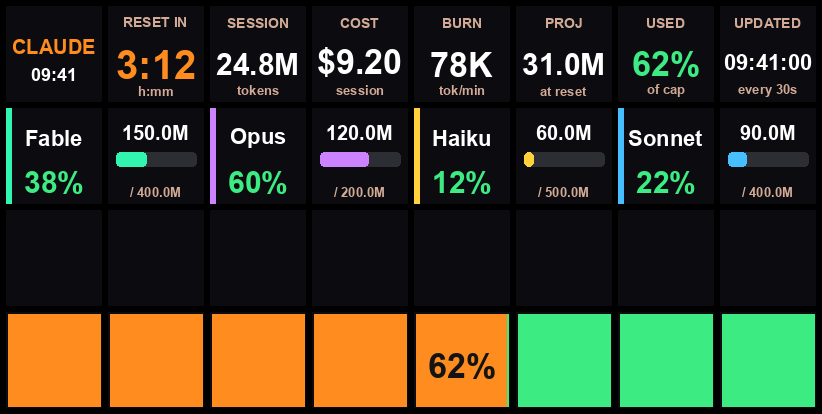
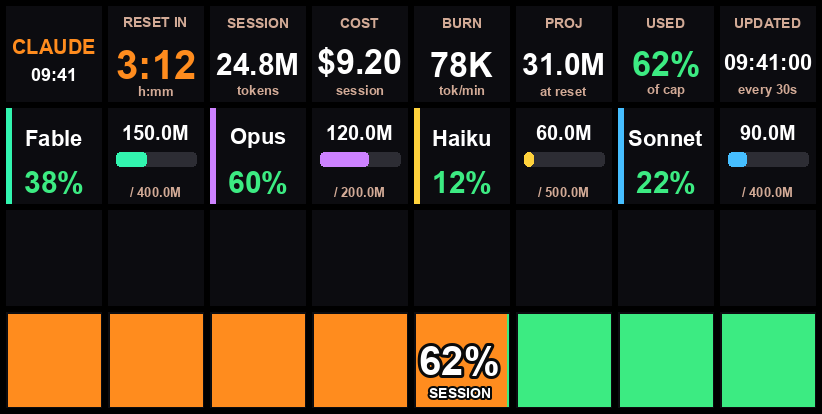
Make session usage percent prominent in bottom bar
Render the percentage in large white text with a dark outline plus a
"SESSION" caption so it stays clearly legible over any segment color.

Changed region(s): [[0.4866, 0.8116, 0.6083, 0.9855]]

diff --git a/src/render/tiles.py b/src/render/tiles.py
@@ -65,8 +65,10 @@ def _draw_centered(
     font,
     fill,
     size: int = KEY_SIZE,
+    stroke_width: Optional[int] = None,
+    stroke_fill=None,
 ) -> None:
-    stroke = _stroke_for(font)
+    stroke = _stroke_for(font) if stroke_width is None else stroke_width
     bbox = draw.textbbox((0, 0), text, font=font, stroke_width=stroke)
     w, h = bbox[2] - bbox[0], bbox[3] - bbox[1]
     x = (size - w) // 2
@@ -76,7 +78,7 @@ def _draw_centered(
         font=font,
         fill=fill,
         stroke_width=stroke,
-        stroke_fill=fill,
+        stroke_fill=stroke_fill if stroke_fill is not None else fill,
     )
 
 
@@ -266,8 +268,29 @@ def progress_segment_key(
     draw.rectangle([0, 0, size, size], outline=BG, width=2)
 
     if label:
-        font = _fit_font(draw, label, size - 8, 34)
-        _draw_centered(draw, label, size // 2, font, (20, 20, 20), size)
+        font = _fit_font(draw, label, size - 8, 40)
+        # White text with a dark outline stays legible over green or orange.
+        _draw_centered(
+            draw,
+            label,
+            size // 2 - 4,
+            font,
+            FG,
+            size,
+            stroke_width=3,
+            stroke_fill=(10, 10, 10),
+        )
+        cap_font = _load_font(14)
+        _draw_centered(
+            draw,
+            "SESSION",
+            size - 16,
+            cap_font,
+            FG,
+            size,
+            stroke_width=2,
+            stroke_fill=(10, 10, 10),
+        )
     return img
 
 